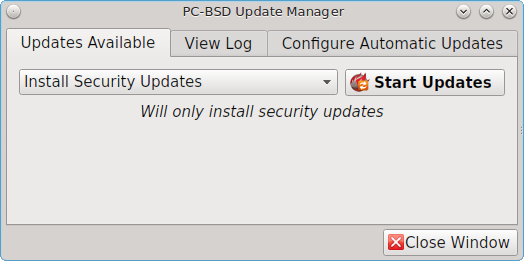
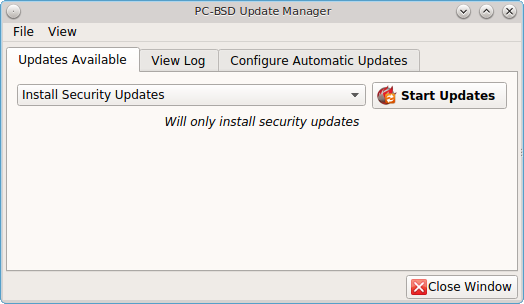
Small doc updates and an updated screenshot.

Changed region(s): [[0.0, 0.0, 1.0, 1.0]]

diff --git a/src-qt5/docs/postinstall.rst b/src-qt5/docs/postinstall.rst
@@ -237,9 +237,9 @@ If you would like to set the default wireless connection, highlight the network 
 to input it and will indicate the type of security used on the network. If the network you wish to connect to does not appear, try clicking the "Rescan" button. If you are
 unable to connect, or you wish to configure the connection at a later time, refer to the instructions in :ref:`Network Configuration`.
 
-When finished, click the "Next" button. The screen in Figure 4.8a indicates that the post-installation setup is complete. Click the "Finish" button to access the login menu.
+When finished, click the "Next" button. The screen in Figure 4.7b indicates that the post-installation setup is complete. Click the "Finish" button to access the login menu.
 
-**Figure 4.8a: Setup is Complete** 
+**Figure 4.7b: Setup is Complete** 
 
 .. image:: images/config6.png
 
@@ -249,9 +249,9 @@ When finished, click the "Next" button. The screen in Figure 4.8a indicates that
 Logging In
 ==========
 
-Once you have finished setting up your system, you will be presented with the PCDM (PC-BSD® Display Manager) graphical login screen. An example is seen in Figure 4.9a.
+Once you have finished setting up your system, you will be presented with the PCDM (PC-BSD® Display Manager) graphical login screen. An example is seen in Figure 4.8a.
 
-**Figure 4.9a: PC-BSD® Login Screen** 
+**Figure 4.8a: PC-BSD® Login Screen** 
 
 .. image:: images/login1.png
 
@@ -268,10 +268,10 @@ the following:
 * **desktop:** if you installed any desktops, use the drop-down menu to select the desktop to log into. If you did not install any desktops, :ref:`Fluxbox`
   will be the only available desktop. You can install or uninstall desktops using :ref:`AppCafe®`.
 
-.. note:: if you created a PersonaCrypt user, you will need to insert the PersonaCrypt device in order to login. As seen in the example in Figure 4.9b, this will
+.. note:: if you created a PersonaCrypt user, you will need to insert the PersonaCrypt device in order to login. As seen in the example in Figure 4.8b, this will
    add an extra field to the login screen so that you can input the password associated with the PersonaCrypt device.
 
-**Figure 4.9b: PC-BSD® PersonaCrypt Login Screen** 
+**Figure 4.8b: PC-BSD® PersonaCrypt Login Screen** 
 
 .. image:: images/login5.png
 
@@ -287,9 +287,9 @@ Once you have made your selections, input the password associated with the selec
 
 .. index:: welcome
 
-The first time you log in, the PC-BSD® "Getting Started" screen will load as seen in Figure 4.9c. 
+The first time you log in, the PC-BSD® "Getting Started" screen will load as seen in Figure 4.8c. 
 
-**Figure 4.9c: PC-BSD® Getting Started Screen** 
+**Figure 4.8c: PC-BSD® Getting Started Screen** 
 
 .. image:: images/welcome1.png
 

diff --git a/src-qt5/docs/controlpanel.rst b/src-qt5/docs/controlpanel.rst
@@ -895,7 +895,7 @@ The "Misc" tab is shown in Figure 8.6c.
 
 This screen provides the following options:
 
-**Enable "show password" button:** by default, when a user types their password at the login prompt shown in Figure 4.9a, "*" characters are displayed as the password is
+**Enable "show password" button:** by default, when a user types their password at the login prompt shown in Figure 4.8a, "*" characters are displayed as the password is
 typed in order to prevent another user from seeing the password as it is typed. When the  "Enable "show password" button" box is checked, and the user clicks the lock icon next to
 the typed password in the login screen, the asterisks will change to reveal the password.
 
@@ -1156,7 +1156,7 @@ The following options are now available:
 * **Disable Key (Import Data):** in addition to uninitializing the PersonaCrypt device on this system, copy the contents of the user's home directory to this system.
 
 Once a user has been initialized for PersonaCrypt on the system, their user account will no longer be displayed when :ref:`Logging In` **unless** their PersonaCrypt device is
-inserted. Once the USB device is inserted, the login screen will add an extra field, as seen in the example shown in Figure 4.9b.
+inserted. Once the USB device is inserted, the login screen will add an extra field, as seen in the example shown in Figure 4.8b.
 
 .. note:: if the "Allow Stealth Sessions" checkbox has been checked in :menuselection:`Control Panel --> Login Manager --> Misc`, PersonaCrypt users will still be displayed in the
    login menu, even if their USB device is not inserted. This is to allow those users the option to instead login using a stealth session. See :ref:`Login Manager` for more information

diff --git a/src-qt5/docs/update.rst b/src-qt5/docs/update.rst
@@ -394,19 +394,14 @@ Due to its schedule, the automatic updater will never check for new updates more
 Update Manager in system tray and click "Check for Updates". Alternatively, start Update Manager. If any updates are available, an "Updates Available" tab
 will appear, as seen in the example in Figure 7.3g. If no updates are available, of if the system is currently updating, this tab will not appear.
 
-**Figure 7.3g: System Updates are Available**
+**Figure 7.3g: Updates are Available**
 
 .. image:: images/update12.png
 
-In this example, the system has been configured to automatically update "Security & Packages" and a security update is available. Click the "Start Updates"
-button to manually start the update. When prompted, reboot so that the system can boot into the newly patched operating system.
+In this example, a security update is available. Click the "Start Updates" button to manually start the update. When prompted, reboot so that the system can
+boot into the newly patched operating system.
 
-Figure 7.3h shown an example of a system that has package updates available. The user has clicked the "View Package Updates" box to see which packages will be
-upgraded.
-
-**Figure 7.3h: Package Updates are Available**
-
-.. image:: images/update13.png
+When package updates are available a "View Package Updates" box can be clicked to see which packages will be upgraded.
 
 .. note:: how often package updates are available depends upon the "Repository Settings" set in :menuselection:`AppCafe® --> Configure`. The default setting
    of "Production" will only provide package updates every 3 months whereas a setting of "Edge" will provide package updates as soon as a new version is

diff --git a/src-qt5/docs/introduction.rst b/src-qt5/docs/introduction.rst
@@ -209,9 +209,6 @@ The following features or enhancements were introduced for PC-BSD® 10.1.2:
 
 * The ability to :ref:`Configure Audio Output` has been added as a post-installation configuration screen.
 
-* The :command:`lumina-xconfig` utility has been added to Lumina for adding, removing, and re-arranging screens in the current X session. This utility can be accessed
-  from :menuselection:`Desktop Preferences --> Screen Configuration` while logged into the Lumina desktop.
-
 * The "Lock" and "Suspend" buttons have been added to the Lumina "Log Out" screen.
 
 * A "Settings" menu has been added to the right-click menu of the Lumina desktop.
